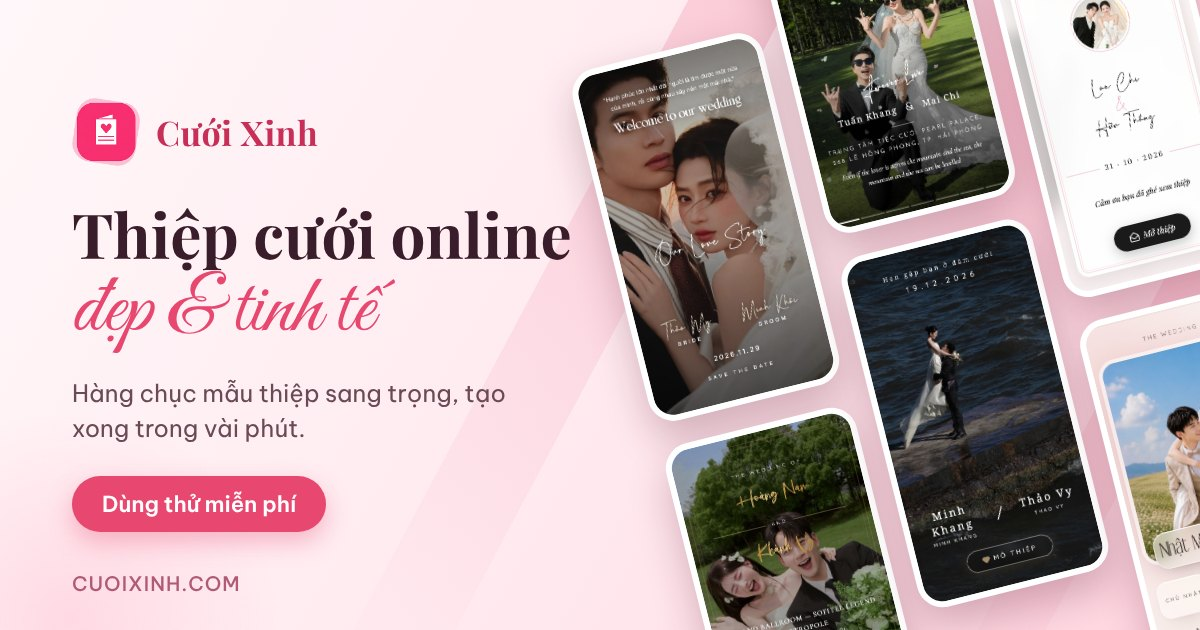
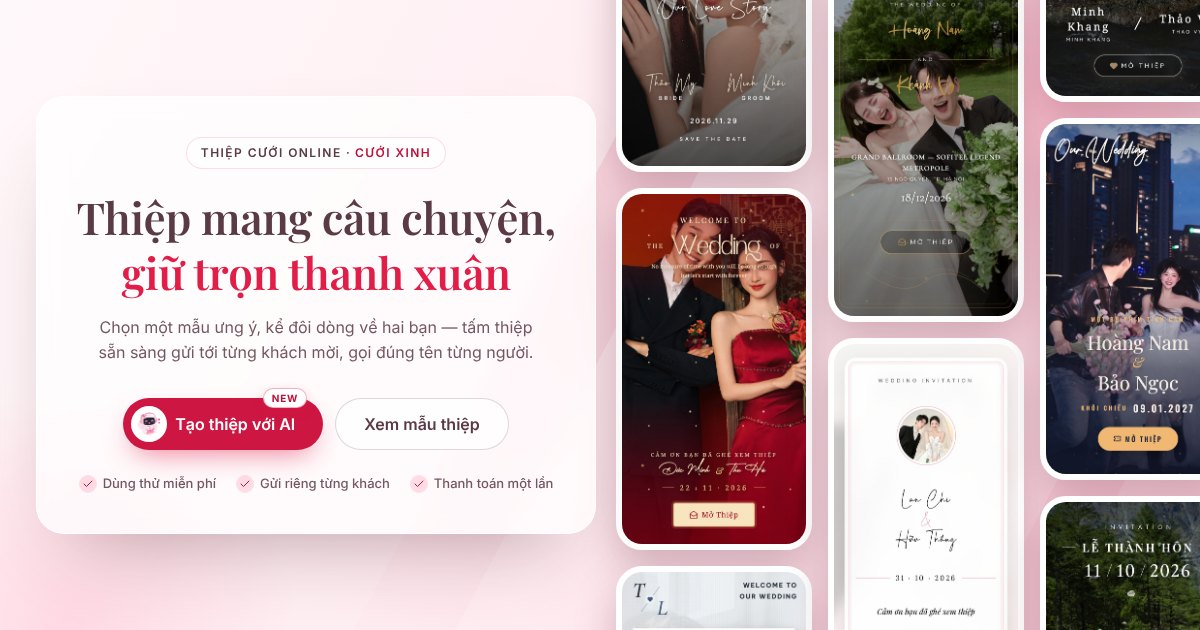
Ảnh xem trước trang chủ: khối chữ y như màn mở đầu + dàn mẫu thiệp dựng thẳng
Claude-Session: https://claude.ai/code/session_01WTdDMShfWqCeSuH1CukxM2

diff --git a/index.html b/index.html
@@ -29,7 +29,7 @@
     <meta property="og:image:type" content="image/jpeg" />
     <meta property="og:image:width" content="1200" />
     <meta property="og:image:height" content="630" />
-    <meta property="og:image:alt" content="Cưới Xinh - Thiệp cưới online đẹp &amp; tinh tế" />
+    <meta property="og:image:alt" content="Cưới Xinh - Thiệp mang câu chuyện, giữ trọn thanh xuân" />
     <meta name="twitter:card" content="summary_large_image" />
     <meta name="twitter:image" content="https://cuoixinh.com/assets/images/og-cover.jpg" />
     <link rel="preconnect" href="https://fonts.googleapis.com" />
